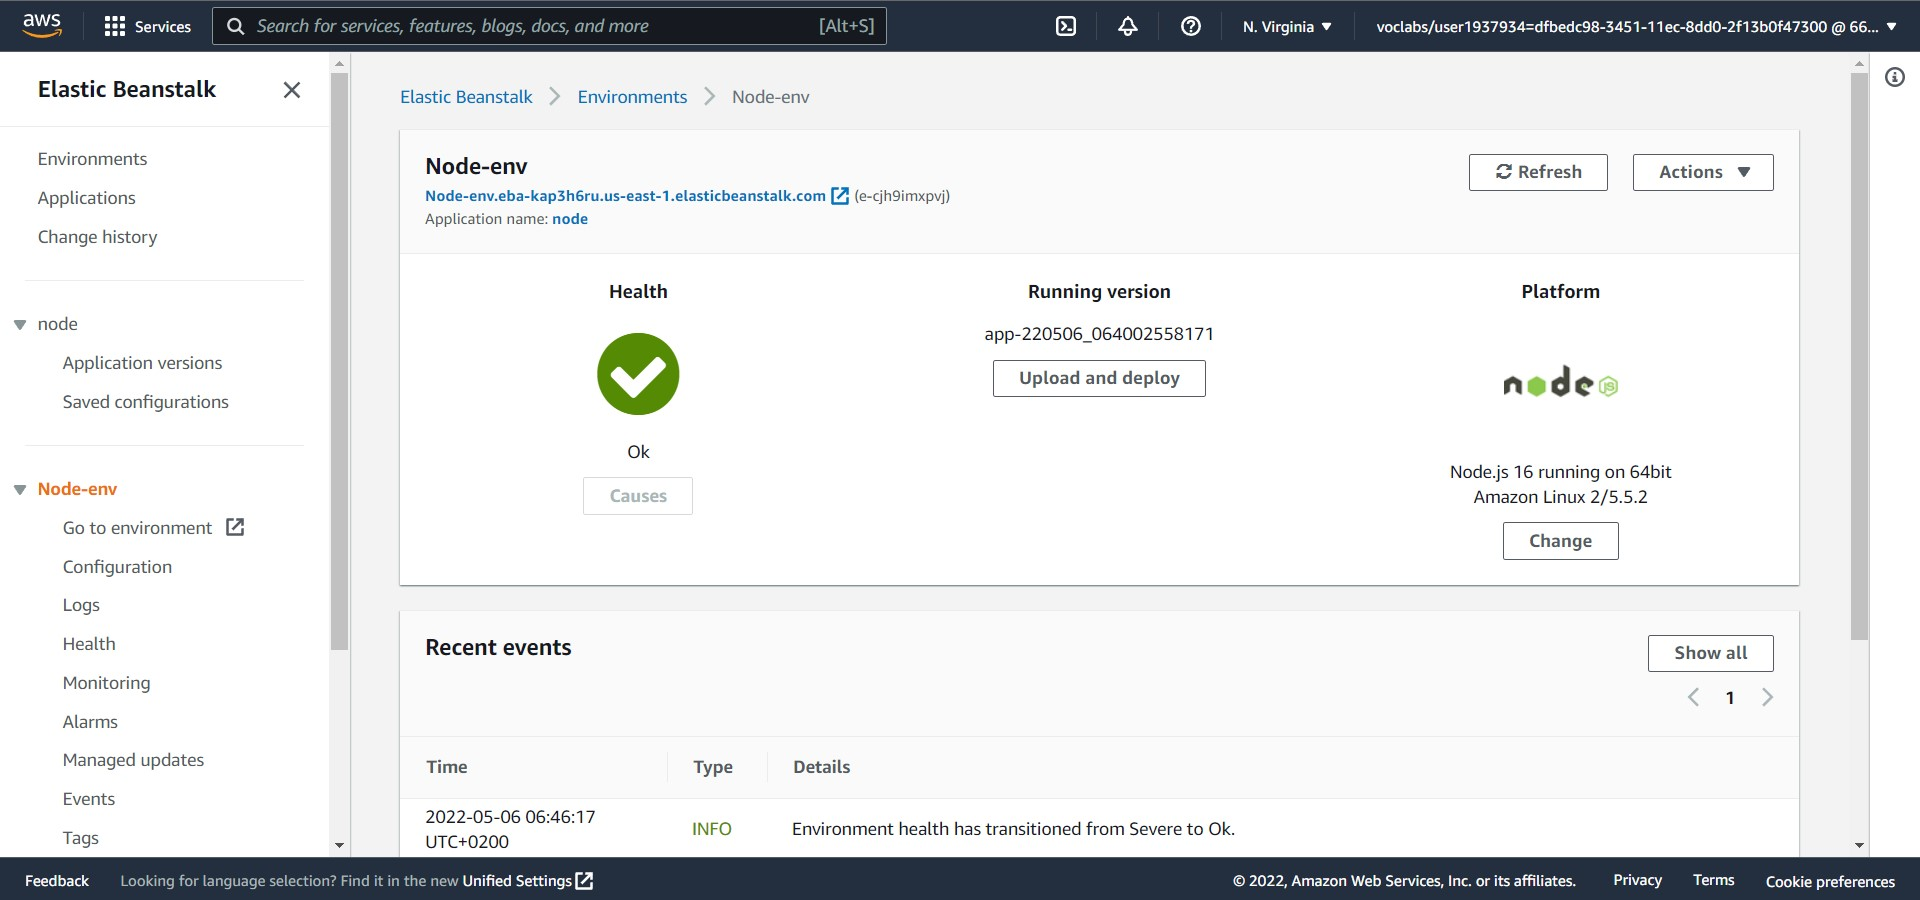
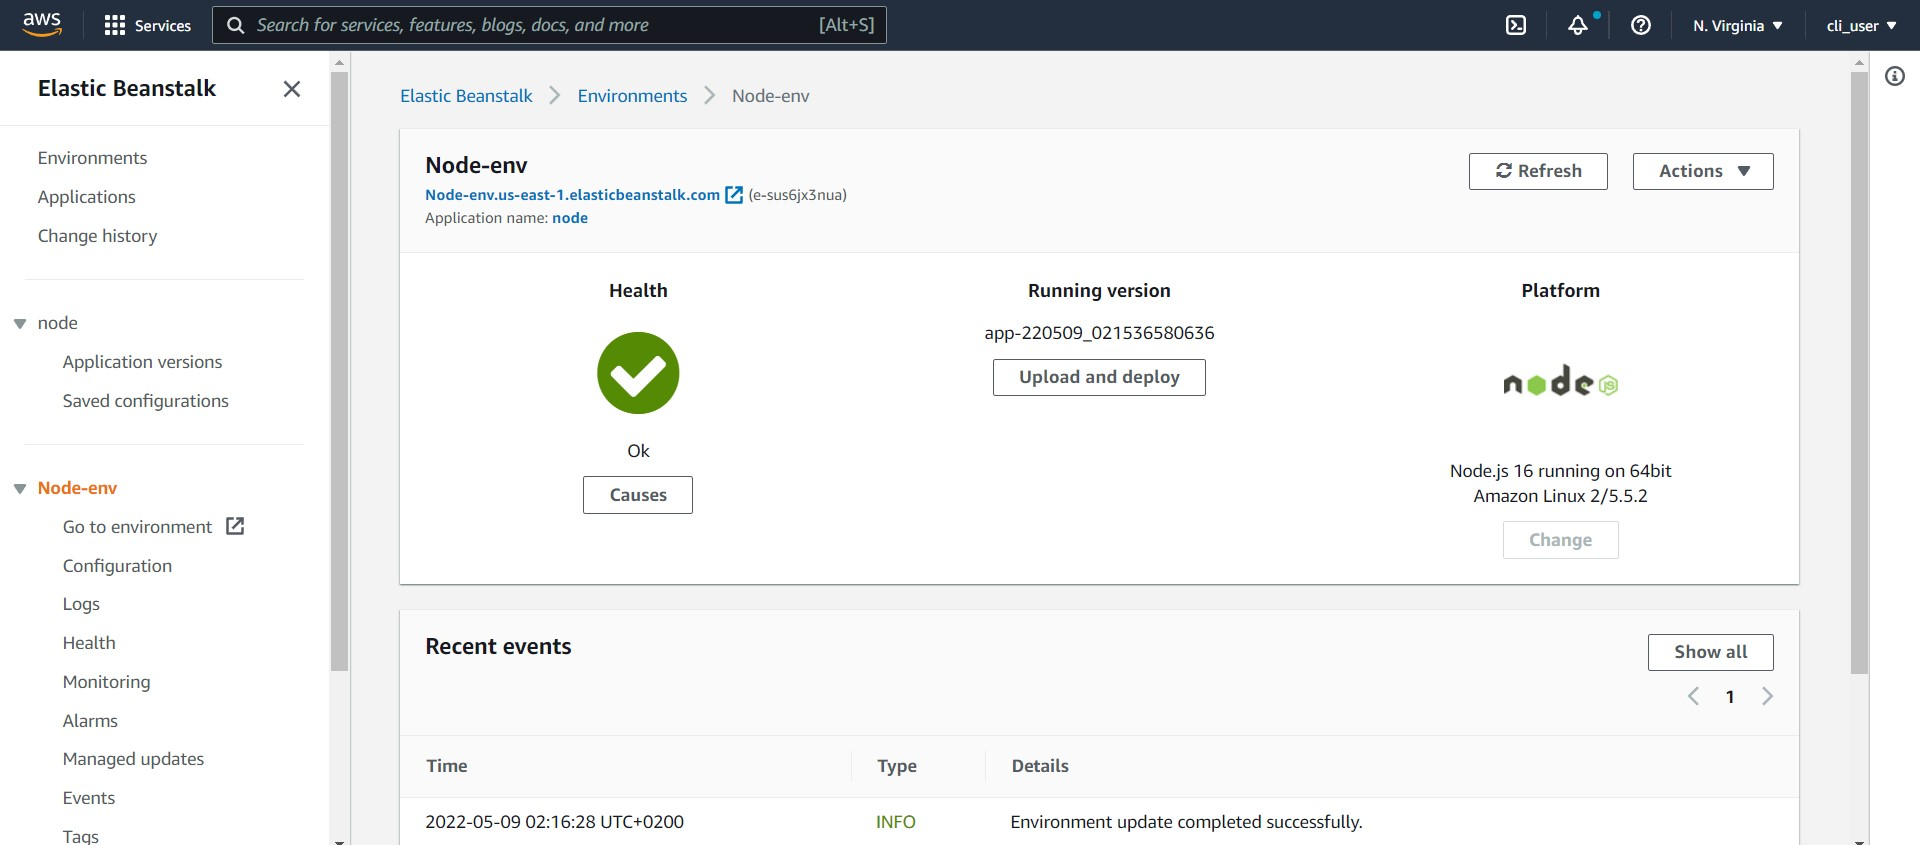
commi

diff --git a/docs/infrastructure.md b/docs/infrastructure.md
@@ -11,11 +11,10 @@ Database URI: `postgres://postgres:postgres@mydb123.cifllxhq1jqk.us-east-1.rds.a
 #### Elastic Beanstalk
 AWS Elastic Beanstalk was used to host the application server. The app is created, archived, and uploaded to and S3 bucket from where Elastic Beanstalk extracts and runs the application on an endpoint.
 
-- [EB URL] (http://node-env.eba-kap3h6ru.us-east-1.elasticbeanstalk.com/)
+- [EB URL] (http://node-env.us-east-1.elasticbeanstalk.com/)
 
 #### S3 Bucket
 The frontend application is deployed using AWS S3 Bucket. The bundled assets are uploaded to an S3 bucket and that bucket is made publicly readable.
 
 - [Bucket URL] (http://mostafa-bucket-123.s3-website-us-east-1.amazonaws.com/)
-
 
